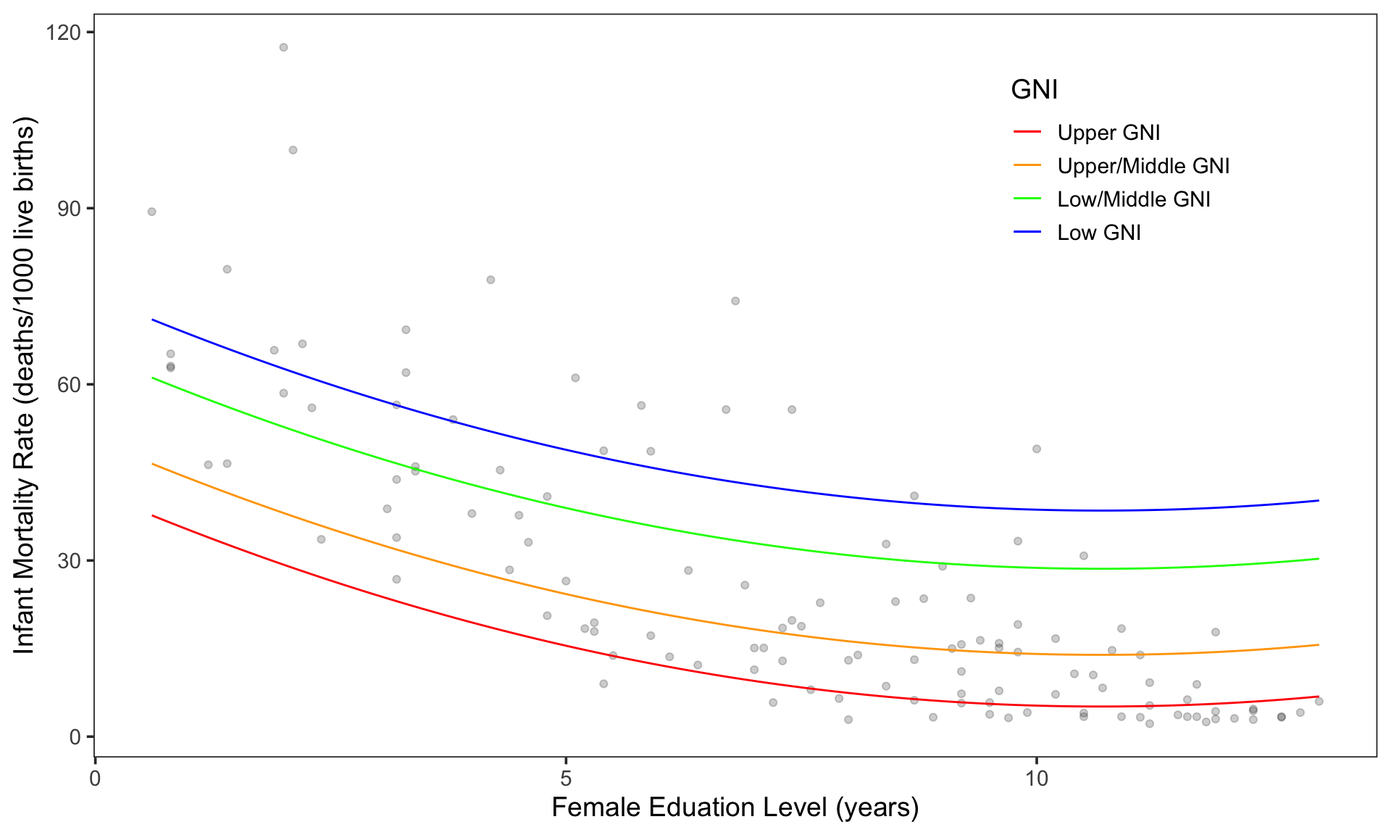
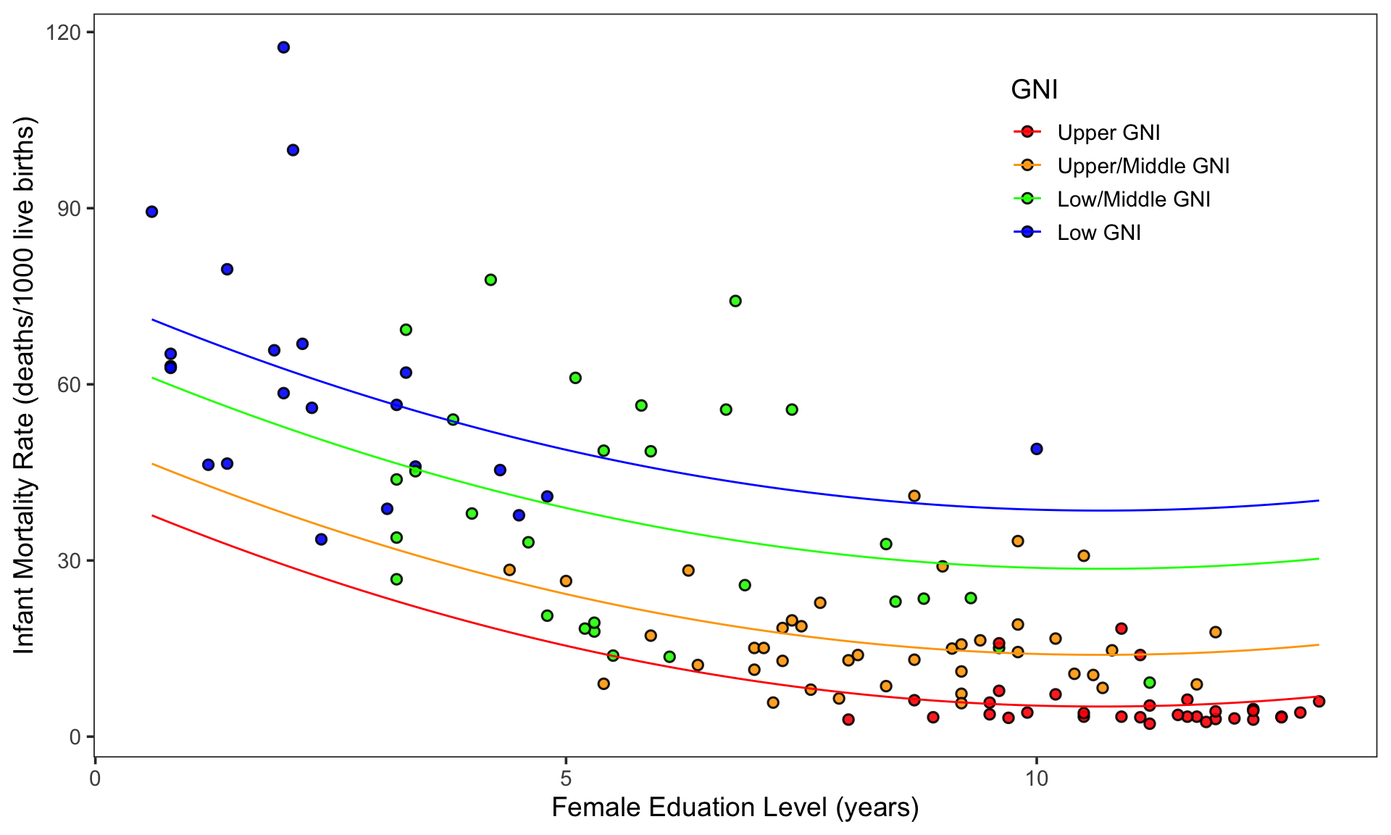
_freeze, _site, and fertility index.qmd update

diff --git a/_site/projects/fertility/index.html b/_site/projects/fertility/index.html
@@ -246,7 +246,7 @@ pre > code.sourceCode > span > a:first-child::before { text-decoration: underlin
 <div id="fig-quadratics" class="quarto-figure quarto-figure-left anchored">
 <figure class="figure">
 <p><img src="index_files/figure-html/fig-quadratics-1.png" style="width:100.0%;height:100.0%" class="figure-img"></p>
-<figcaption class="figure-caption">Figure&nbsp;2: Quadratic fits showing the relationship between fertility rate and female education level for 4 different GNI levels.</figcaption>
+<figcaption class="figure-caption">Figure&nbsp;2: Quadratic fits showing the relationship between fertility rate and female education level for four different GNI levels.</figcaption>
 </figure>
 </div>
 </div>
@@ -570,22 +570,22 @@ window.document.addEventListener("DOMContentLoaded", function (event) {
 <span id="cb1-4"><a href="#cb1-4" aria-hidden="true" tabindex="-1"></a><span class="co">  html:</span></span>
 <span id="cb1-5"><a href="#cb1-5" aria-hidden="true" tabindex="-1"></a><span class="co">    fig-width: 12</span></span>
 <span id="cb1-6"><a href="#cb1-6" aria-hidden="true" tabindex="-1"></a><span class="co">    fig-height: 9</span></span>
-<span id="cb1-7"><a href="#cb1-7" aria-hidden="true" tabindex="-1"></a><span class="co">    footer: "Andy"</span></span>
-<span id="cb1-8"><a href="#cb1-8" aria-hidden="true" tabindex="-1"></a><span class="an">editor:</span><span class="co"> visual</span></span>
-<span id="cb1-9"><a href="#cb1-9" aria-hidden="true" tabindex="-1"></a><span class="an">execute:</span><span class="co"> </span></span>
-<span id="cb1-10"><a href="#cb1-10" aria-hidden="true" tabindex="-1"></a><span class="co">  echo: false</span></span>
-<span id="cb1-11"><a href="#cb1-11" aria-hidden="true" tabindex="-1"></a><span class="an">code-tools:</span><span class="co"> true</span></span>
-<span id="cb1-12"><a href="#cb1-12" aria-hidden="true" tabindex="-1"></a><span class="co">---</span></span>
-<span id="cb1-13"><a href="#cb1-13" aria-hidden="true" tabindex="-1"></a></span>
-<span id="cb1-16"><a href="#cb1-16" aria-hidden="true" tabindex="-1"></a><span class="in">```{r}</span></span>
-<span id="cb1-17"><a href="#cb1-17" aria-hidden="true" tabindex="-1"></a><span class="co">#| echo: false</span></span>
-<span id="cb1-18"><a href="#cb1-18" aria-hidden="true" tabindex="-1"></a><span class="co">#| message: false</span></span>
-<span id="cb1-19"><a href="#cb1-19" aria-hidden="true" tabindex="-1"></a><span class="co">#| warning: false</span></span>
-<span id="cb1-20"><a href="#cb1-20" aria-hidden="true" tabindex="-1"></a></span>
-<span id="cb1-21"><a href="#cb1-21" aria-hidden="true" tabindex="-1"></a><span class="fu">library</span>(tidyverse)</span>
-<span id="cb1-22"><a href="#cb1-22" aria-hidden="true" tabindex="-1"></a><span class="fu">library</span>(broom)</span>
-<span id="cb1-23"><a href="#cb1-23" aria-hidden="true" tabindex="-1"></a><span class="fu">library</span>(gt)</span>
-<span id="cb1-24"><a href="#cb1-24" aria-hidden="true" tabindex="-1"></a><span class="fu">library</span>(ggtext)</span>
+<span id="cb1-7"><a href="#cb1-7" aria-hidden="true" tabindex="-1"></a><span class="an">editor:</span><span class="co"> visual</span></span>
+<span id="cb1-8"><a href="#cb1-8" aria-hidden="true" tabindex="-1"></a><span class="an">execute:</span><span class="co"> </span></span>
+<span id="cb1-9"><a href="#cb1-9" aria-hidden="true" tabindex="-1"></a><span class="co">  echo: false</span></span>
+<span id="cb1-10"><a href="#cb1-10" aria-hidden="true" tabindex="-1"></a><span class="an">code-tools:</span><span class="co"> true</span></span>
+<span id="cb1-11"><a href="#cb1-11" aria-hidden="true" tabindex="-1"></a><span class="co">---</span></span>
+<span id="cb1-12"><a href="#cb1-12" aria-hidden="true" tabindex="-1"></a></span>
+<span id="cb1-15"><a href="#cb1-15" aria-hidden="true" tabindex="-1"></a><span class="in">```{r}</span></span>
+<span id="cb1-16"><a href="#cb1-16" aria-hidden="true" tabindex="-1"></a><span class="co">#| echo: false</span></span>
+<span id="cb1-17"><a href="#cb1-17" aria-hidden="true" tabindex="-1"></a><span class="co">#| message: false</span></span>
+<span id="cb1-18"><a href="#cb1-18" aria-hidden="true" tabindex="-1"></a><span class="co">#| warning: false</span></span>
+<span id="cb1-19"><a href="#cb1-19" aria-hidden="true" tabindex="-1"></a></span>
+<span id="cb1-20"><a href="#cb1-20" aria-hidden="true" tabindex="-1"></a><span class="fu">library</span>(tidyverse)</span>
+<span id="cb1-21"><a href="#cb1-21" aria-hidden="true" tabindex="-1"></a><span class="fu">library</span>(broom)</span>
+<span id="cb1-22"><a href="#cb1-22" aria-hidden="true" tabindex="-1"></a><span class="fu">library</span>(gt)</span>
+<span id="cb1-23"><a href="#cb1-23" aria-hidden="true" tabindex="-1"></a><span class="fu">library</span>(ggtext)</span>
+<span id="cb1-24"><a href="#cb1-24" aria-hidden="true" tabindex="-1"></a><span class="fu">library</span>(dplyr)</span>
 <span id="cb1-25"><a href="#cb1-25" aria-hidden="true" tabindex="-1"></a>fertility <span class="ot">&lt;-</span> <span class="fu">read_csv</span>(<span class="st">"fertility.csv"</span>)</span>
 <span id="cb1-26"><a href="#cb1-26" aria-hidden="true" tabindex="-1"></a><span class="in">```</span></span>
 <span id="cb1-27"><a href="#cb1-27" aria-hidden="true" tabindex="-1"></a></span>
@@ -611,7 +611,7 @@ window.document.addEventListener("DOMContentLoaded", function (event) {
 <span id="cb1-49"><a href="#cb1-49" aria-hidden="true" tabindex="-1"></a></span>
 <span id="cb1-50"><a href="#cb1-50" aria-hidden="true" tabindex="-1"></a><span class="co">#create scatterplot</span></span>
 <span id="cb1-51"><a href="#cb1-51" aria-hidden="true" tabindex="-1"></a><span class="fu">ggplot</span>(fertility, <span class="fu">aes</span>(<span class="at">x =</span> educ_female, <span class="at">y =</span> infant_mortality)) <span class="sc">+</span> </span>
-<span id="cb1-52"><a href="#cb1-52" aria-hidden="true" tabindex="-1"></a>  <span class="fu">geom_point</span>(<span class="at">alpha =</span> <span class="fl">0.2</span>) <span class="sc">+</span> </span>
+<span id="cb1-52"><a href="#cb1-52" aria-hidden="true" tabindex="-1"></a>  <span class="fu">geom_point</span>(<span class="at">alpha =</span> <span class="fl">0.2</span>, <span class="at">size =</span> <span class="dv">2</span>, <span class="at">color =</span> <span class="st">"black"</span>, <span class="at">stroke =</span> <span class="fl">0.8</span>) <span class="sc">+</span> </span>
 <span id="cb1-53"><a href="#cb1-53" aria-hidden="true" tabindex="-1"></a>  <span class="fu">theme_bw</span>(<span class="at">base_size =</span> <span class="dv">14</span>) <span class="sc">+</span></span>
 <span id="cb1-54"><a href="#cb1-54" aria-hidden="true" tabindex="-1"></a>  <span class="fu">theme</span>(</span>
 <span id="cb1-55"><a href="#cb1-55" aria-hidden="true" tabindex="-1"></a>    <span class="at">panel.grid =</span> <span class="fu">element_blank</span>(),</span>
@@ -641,53 +641,65 @@ window.document.addEventListener("DOMContentLoaded", function (event) {
 <span id="cb1-79"><a href="#cb1-79" aria-hidden="true" tabindex="-1"></a>An investigation of the standardized residuals for this linear model suggest that a linear model may not accurately represent the data and that a model including a quadratic effect of female education may be more appropriate as well as one that segments GNI into four levels. This new model was regressed, controlling for each GNI and was found to better represent the data ($\mathrm{R}^2 = 0.711$) than the linear model ($\mathrm{R}^2 = 0.606$). Again, the equation and a figure for this model are provided below.</span>
 <span id="cb1-80"><a href="#cb1-80" aria-hidden="true" tabindex="-1"></a></span>
 <span id="cb1-83"><a href="#cb1-83" aria-hidden="true" tabindex="-1"></a><span class="in">```{r}</span></span>
-<span id="cb1-84"><a href="#cb1-84" aria-hidden="true" tabindex="-1"></a><span class="co">#| echo: false</span></span>
-<span id="cb1-85"><a href="#cb1-85" aria-hidden="true" tabindex="-1"></a><span class="co">#| label: fig-quadratics</span></span>
-<span id="cb1-86"><a href="#cb1-86" aria-hidden="true" tabindex="-1"></a><span class="co">#| fig-cap: "Quadratic fits showing the relationship between fertility rate and female education level for 4 different GNI levels."</span></span>
-<span id="cb1-87"><a href="#cb1-87" aria-hidden="true" tabindex="-1"></a><span class="co">#| fig-align: left</span></span>
-<span id="cb1-88"><a href="#cb1-88" aria-hidden="true" tabindex="-1"></a><span class="co">#| fig-width: 10</span></span>
-<span id="cb1-89"><a href="#cb1-89" aria-hidden="true" tabindex="-1"></a><span class="co">#| fig-height: 6</span></span>
-<span id="cb1-90"><a href="#cb1-90" aria-hidden="true" tabindex="-1"></a><span class="co">#| out-width: 100%</span></span>
-<span id="cb1-91"><a href="#cb1-91" aria-hidden="true" tabindex="-1"></a><span class="co">#| out-height: 100%</span></span>
-<span id="cb1-92"><a href="#cb1-92" aria-hidden="true" tabindex="-1"></a></span>
-<span id="cb1-93"><a href="#cb1-93" aria-hidden="true" tabindex="-1"></a><span class="co">#create scatterplot</span></span>
-<span id="cb1-94"><a href="#cb1-94" aria-hidden="true" tabindex="-1"></a><span class="fu">ggplot</span>(fertility, <span class="fu">aes</span>(<span class="at">x =</span> educ_female, <span class="at">y =</span> infant_mortality)) <span class="sc">+</span> </span>
-<span id="cb1-95"><a href="#cb1-95" aria-hidden="true" tabindex="-1"></a>  <span class="fu">geom_point</span>(<span class="at">alpha =</span> <span class="fl">0.2</span>) <span class="sc">+</span> </span>
-<span id="cb1-96"><a href="#cb1-96" aria-hidden="true" tabindex="-1"></a>  <span class="fu">theme_bw</span>(<span class="at">base_size =</span> <span class="dv">14</span>) <span class="sc">+</span></span>
-<span id="cb1-97"><a href="#cb1-97" aria-hidden="true" tabindex="-1"></a>  <span class="fu">theme</span>(</span>
-<span id="cb1-98"><a href="#cb1-98" aria-hidden="true" tabindex="-1"></a>    <span class="at">panel.grid =</span> <span class="fu">element_blank</span>(),</span>
-<span id="cb1-99"><a href="#cb1-99" aria-hidden="true" tabindex="-1"></a>    <span class="at">axis.title.x =</span>  <span class="fu">element_markdown</span>(),</span>
-<span id="cb1-100"><a href="#cb1-100" aria-hidden="true" tabindex="-1"></a>    <span class="at">axis.title.y =</span>  <span class="fu">element_markdown</span>(),</span>
-<span id="cb1-101"><a href="#cb1-101" aria-hidden="true" tabindex="-1"></a>    <span class="at">legend.position =</span> <span class="fu">c</span>(<span class="fl">0.8</span>, <span class="fl">0.8</span>)</span>
-<span id="cb1-102"><a href="#cb1-102" aria-hidden="true" tabindex="-1"></a>  ) <span class="sc">+</span></span>
-<span id="cb1-103"><a href="#cb1-103" aria-hidden="true" tabindex="-1"></a>  <span class="fu">scale_color_manual</span>(<span class="at">name =</span> <span class="st">"GNI"</span>, </span>
-<span id="cb1-104"><a href="#cb1-104" aria-hidden="true" tabindex="-1"></a>                     <span class="at">values =</span> <span class="fu">c</span>(<span class="st">"Upper GNI"</span> <span class="ot">=</span> <span class="st">"red"</span>, <span class="st">"Upper/Middle GNI"</span> <span class="ot">=</span> <span class="st">"orange"</span>, <span class="st">"Low/Middle GNI"</span> <span class="ot">=</span> <span class="st">"green"</span>, <span class="st">"Low GNI"</span> <span class="ot">=</span> <span class="st">"blue"</span>), </span>
-<span id="cb1-105"><a href="#cb1-105" aria-hidden="true" tabindex="-1"></a>                     <span class="at">breaks =</span> <span class="fu">c</span>(<span class="st">"Upper GNI"</span>, <span class="st">"Upper/Middle GNI"</span>, <span class="st">"Low/Middle GNI"</span>, <span class="st">"Low GNI"</span>)</span>
-<span id="cb1-106"><a href="#cb1-106" aria-hidden="true" tabindex="-1"></a>                     ) <span class="sc">+</span></span>
-<span id="cb1-107"><a href="#cb1-107" aria-hidden="true" tabindex="-1"></a>  <span class="fu">geom_function</span>(<span class="fu">aes</span>(<span class="at">color=</span><span class="st">"Upper GNI"</span>),</span>
-<span id="cb1-108"><a href="#cb1-108" aria-hidden="true" tabindex="-1"></a>    <span class="at">fun =</span> <span class="cf">function</span>(x) {(<span class="fl">75.05</span> <span class="sc">-</span> <span class="fl">33.37</span>) <span class="sc">-</span> <span class="fl">6.84</span> <span class="sc">*</span> x <span class="sc">+</span> <span class="fl">0.32</span> <span class="sc">*</span> x<span class="sc">^</span><span class="dv">2</span>}</span>
-<span id="cb1-109"><a href="#cb1-109" aria-hidden="true" tabindex="-1"></a>    ) <span class="sc">+</span></span>
-<span id="cb1-110"><a href="#cb1-110" aria-hidden="true" tabindex="-1"></a>  <span class="fu">geom_function</span>(<span class="fu">aes</span>(<span class="at">color=</span><span class="st">"Upper/Middle GNI"</span>),</span>
-<span id="cb1-111"><a href="#cb1-111" aria-hidden="true" tabindex="-1"></a>    <span class="at">fun =</span> <span class="cf">function</span>(x) {(<span class="fl">75.05</span> <span class="sc">-</span> <span class="fl">24.57</span>) <span class="sc">-</span> <span class="fl">6.84</span> <span class="sc">*</span> x <span class="sc">+</span> <span class="fl">0.32</span> <span class="sc">*</span> x<span class="sc">^</span><span class="dv">2</span>}</span>
-<span id="cb1-112"><a href="#cb1-112" aria-hidden="true" tabindex="-1"></a>    ) <span class="sc">+</span></span>
-<span id="cb1-113"><a href="#cb1-113" aria-hidden="true" tabindex="-1"></a>  <span class="fu">geom_function</span>(<span class="fu">aes</span>(<span class="at">color=</span><span class="st">"Low/Middle GNI"</span>),</span>
-<span id="cb1-114"><a href="#cb1-114" aria-hidden="true" tabindex="-1"></a>    <span class="at">fun =</span> <span class="cf">function</span>(x) {(<span class="fl">75.05</span> <span class="sc">-</span> <span class="fl">9.91</span>) <span class="sc">-</span> <span class="fl">6.84</span> <span class="sc">*</span> x <span class="sc">+</span> <span class="fl">0.32</span> <span class="sc">*</span> x<span class="sc">^</span><span class="dv">2</span>}</span>
-<span id="cb1-115"><a href="#cb1-115" aria-hidden="true" tabindex="-1"></a>    ) <span class="sc">+</span></span>
-<span id="cb1-116"><a href="#cb1-116" aria-hidden="true" tabindex="-1"></a>  <span class="fu">geom_function</span>(<span class="fu">aes</span>(<span class="at">color=</span><span class="st">"Low GNI"</span>),</span>
-<span id="cb1-117"><a href="#cb1-117" aria-hidden="true" tabindex="-1"></a>    <span class="at">fun =</span> <span class="cf">function</span>(x) {<span class="fl">75.05</span> <span class="sc">-</span> <span class="fl">6.84</span> <span class="sc">*</span> x <span class="sc">+</span> <span class="fl">0.32</span> <span class="sc">*</span> x<span class="sc">^</span><span class="dv">2</span>}</span>
-<span id="cb1-118"><a href="#cb1-118" aria-hidden="true" tabindex="-1"></a>    ) <span class="sc">+</span></span>
-<span id="cb1-119"><a href="#cb1-119" aria-hidden="true" tabindex="-1"></a>  <span class="fu">xlab</span>(<span class="st">"Female Eduation Level (years)"</span>) <span class="sc">+</span></span>
-<span id="cb1-120"><a href="#cb1-120" aria-hidden="true" tabindex="-1"></a>  <span class="fu">ylab</span>(<span class="st">"Infant Mortality Rate (deaths/1000 live births)"</span>)</span>
-<span id="cb1-121"><a href="#cb1-121" aria-hidden="true" tabindex="-1"></a><span class="in">```</span></span>
-<span id="cb1-122"><a href="#cb1-122" aria-hidden="true" tabindex="-1"></a></span>
-<span id="cb1-123"><a href="#cb1-123" aria-hidden="true" tabindex="-1"></a>$$</span>
-<span id="cb1-124"><a href="#cb1-124" aria-hidden="true" tabindex="-1"></a>\begin{align}</span>
-<span id="cb1-125"><a href="#cb1-125" aria-hidden="true" tabindex="-1"></a>\hat{\mathrm{Infant~Mortality~Rate}_i} &amp;= 75.02 - 6.84(\mathrm{Female~Education~Level}_i) + 0.32(\mathrm{Female~Education~Level}_i^2) \nonumber <span class="sc">\\</span></span>
-<span id="cb1-126"><a href="#cb1-126" aria-hidden="true" tabindex="-1"></a>&amp;\quad - 33.37(\mathrm{Upper~GNI}_i) - 24.57(\mathrm{Upper/Middle~GNI}_i)  - 9.91(\mathrm{Low/Middle~GNI}_i)</span>
-<span id="cb1-127"><a href="#cb1-127" aria-hidden="true" tabindex="-1"></a>\end{align}</span>
-<span id="cb1-128"><a href="#cb1-128" aria-hidden="true" tabindex="-1"></a>$$</span>
-<span id="cb1-129"><a href="#cb1-129" aria-hidden="true" tabindex="-1"></a></span>
-<span id="cb1-130"><a href="#cb1-130" aria-hidden="true" tabindex="-1"></a>Like in the linear model, countries with high levels of GNI are associated with a lower infant mortality rate and female education has a negative effect on infant mortality rate, controlling for GNI. However, while the negative effect of female education level remains the same across all levels of female education in the linear model, in the quadratic model, this effect decreases as female education level increases. Another way of saying this is that the negative effect of female education on infant mortality rate is greater at lower levels of education than it is at higher levels (i.e., there is a greater effect at education level 1 than at education level 12). This can be interpreted to mean that the initial years of female education are more critical to decreasing infant mortality than later years. Education still has an effect in these later stages, but its effect diminishes.</span>
+<span id="cb1-84"><a href="#cb1-84" aria-hidden="true" tabindex="-1"></a>fertility <span class="ot">&lt;-</span> fertility <span class="sc">%&gt;%</span></span>
+<span id="cb1-85"><a href="#cb1-85" aria-hidden="true" tabindex="-1"></a>  <span class="fu">mutate</span>(</span>
+<span id="cb1-86"><a href="#cb1-86" aria-hidden="true" tabindex="-1"></a>    <span class="at">gni_class =</span> <span class="fu">paste</span>(gni_class, <span class="st">"GNI"</span>, <span class="at">sep =</span> <span class="st">" "</span>)</span>
+<span id="cb1-87"><a href="#cb1-87" aria-hidden="true" tabindex="-1"></a>  )  </span>
+<span id="cb1-88"><a href="#cb1-88" aria-hidden="true" tabindex="-1"></a><span class="in">```</span></span>
+<span id="cb1-89"><a href="#cb1-89" aria-hidden="true" tabindex="-1"></a></span>
+<span id="cb1-90"><a href="#cb1-90" aria-hidden="true" tabindex="-1"></a></span>
+<span id="cb1-93"><a href="#cb1-93" aria-hidden="true" tabindex="-1"></a><span class="in">```{r}</span></span>
+<span id="cb1-94"><a href="#cb1-94" aria-hidden="true" tabindex="-1"></a><span class="co">#| echo: false</span></span>
+<span id="cb1-95"><a href="#cb1-95" aria-hidden="true" tabindex="-1"></a><span class="co">#| label: fig-quadratics</span></span>
+<span id="cb1-96"><a href="#cb1-96" aria-hidden="true" tabindex="-1"></a><span class="co">#| fig-cap: "Quadratic fits showing the relationship between fertility rate and female education level for four different GNI levels."</span></span>
+<span id="cb1-97"><a href="#cb1-97" aria-hidden="true" tabindex="-1"></a><span class="co">#| fig-align: left</span></span>
+<span id="cb1-98"><a href="#cb1-98" aria-hidden="true" tabindex="-1"></a><span class="co">#| fig-width: 10</span></span>
+<span id="cb1-99"><a href="#cb1-99" aria-hidden="true" tabindex="-1"></a><span class="co">#| fig-height: 6</span></span>
+<span id="cb1-100"><a href="#cb1-100" aria-hidden="true" tabindex="-1"></a><span class="co">#| out-width: 100%</span></span>
+<span id="cb1-101"><a href="#cb1-101" aria-hidden="true" tabindex="-1"></a><span class="co">#| out-height: 100%</span></span>
+<span id="cb1-102"><a href="#cb1-102" aria-hidden="true" tabindex="-1"></a>  </span>
+<span id="cb1-103"><a href="#cb1-103" aria-hidden="true" tabindex="-1"></a><span class="co">#create scatterplot</span></span>
+<span id="cb1-104"><a href="#cb1-104" aria-hidden="true" tabindex="-1"></a><span class="fu">ggplot</span>(fertility, <span class="fu">aes</span>(<span class="at">x =</span> educ_female, <span class="at">y =</span> infant_mortality)) <span class="sc">+</span> </span>
+<span id="cb1-105"><a href="#cb1-105" aria-hidden="true" tabindex="-1"></a>  <span class="fu">geom_point</span>(<span class="at">alpha =</span> <span class="fl">0.9</span>, <span class="fu">aes</span>(<span class="at">fill =</span> gni_class), <span class="at">shape =</span> <span class="dv">21</span>, <span class="at">size =</span> <span class="dv">2</span>, <span class="at">color =</span> <span class="st">"black"</span>, <span class="at">stroke =</span> <span class="fl">0.8</span>) <span class="sc">+</span> </span>
+<span id="cb1-106"><a href="#cb1-106" aria-hidden="true" tabindex="-1"></a>  <span class="fu">theme_bw</span>(<span class="at">base_size =</span> <span class="dv">14</span>) <span class="sc">+</span></span>
+<span id="cb1-107"><a href="#cb1-107" aria-hidden="true" tabindex="-1"></a>  <span class="fu">theme</span>(</span>
+<span id="cb1-108"><a href="#cb1-108" aria-hidden="true" tabindex="-1"></a>    <span class="at">panel.grid =</span> <span class="fu">element_blank</span>(),</span>
+<span id="cb1-109"><a href="#cb1-109" aria-hidden="true" tabindex="-1"></a>    <span class="at">axis.title.x =</span>  <span class="fu">element_markdown</span>(),</span>
+<span id="cb1-110"><a href="#cb1-110" aria-hidden="true" tabindex="-1"></a>    <span class="at">axis.title.y =</span>  <span class="fu">element_markdown</span>(),</span>
+<span id="cb1-111"><a href="#cb1-111" aria-hidden="true" tabindex="-1"></a>    <span class="at">legend.position =</span> <span class="fu">c</span>(<span class="fl">0.8</span>, <span class="fl">0.8</span>)</span>
+<span id="cb1-112"><a href="#cb1-112" aria-hidden="true" tabindex="-1"></a>  ) <span class="sc">+</span></span>
+<span id="cb1-113"><a href="#cb1-113" aria-hidden="true" tabindex="-1"></a>  <span class="fu">scale_color_manual</span>(<span class="at">name =</span> <span class="st">"GNI"</span>, </span>
+<span id="cb1-114"><a href="#cb1-114" aria-hidden="true" tabindex="-1"></a>                     <span class="at">values =</span> <span class="fu">c</span>(<span class="st">"Upper GNI"</span> <span class="ot">=</span> <span class="st">"red"</span>, <span class="st">"Upper/Middle GNI"</span> <span class="ot">=</span> <span class="st">"orange"</span>, <span class="st">"Low/Middle GNI"</span> <span class="ot">=</span> <span class="st">"green"</span>, <span class="st">"Low GNI"</span> <span class="ot">=</span> <span class="st">"blue"</span>), </span>
+<span id="cb1-115"><a href="#cb1-115" aria-hidden="true" tabindex="-1"></a>                     <span class="at">breaks =</span> <span class="fu">c</span>(<span class="st">"Upper GNI"</span>, <span class="st">"Upper/Middle GNI"</span>, <span class="st">"Low/Middle GNI"</span>, <span class="st">"Low GNI"</span>)</span>
+<span id="cb1-116"><a href="#cb1-116" aria-hidden="true" tabindex="-1"></a>                     ) <span class="sc">+</span></span>
+<span id="cb1-117"><a href="#cb1-117" aria-hidden="true" tabindex="-1"></a>  <span class="fu">scale_fill_manual</span>(<span class="at">name =</span> <span class="st">"GNI"</span>, </span>
+<span id="cb1-118"><a href="#cb1-118" aria-hidden="true" tabindex="-1"></a>                     <span class="at">values =</span> <span class="fu">c</span>(<span class="st">"Upper GNI"</span> <span class="ot">=</span> <span class="st">"red"</span>, <span class="st">"Upper/Middle GNI"</span> <span class="ot">=</span> <span class="st">"orange"</span>, <span class="st">"Low/Middle GNI"</span> <span class="ot">=</span> <span class="st">"green"</span>, <span class="st">"Low GNI"</span> <span class="ot">=</span> <span class="st">"blue"</span>), </span>
+<span id="cb1-119"><a href="#cb1-119" aria-hidden="true" tabindex="-1"></a>                     <span class="at">breaks =</span> <span class="fu">c</span>(<span class="st">"Upper GNI"</span>, <span class="st">"Upper/Middle GNI"</span>, <span class="st">"Low/Middle GNI"</span>, <span class="st">"Low GNI"</span>)</span>
+<span id="cb1-120"><a href="#cb1-120" aria-hidden="true" tabindex="-1"></a>                     ) <span class="sc">+</span></span>
+<span id="cb1-121"><a href="#cb1-121" aria-hidden="true" tabindex="-1"></a>  <span class="fu">geom_function</span>(<span class="fu">aes</span>(<span class="at">color=</span><span class="st">"Upper GNI"</span>),</span>
+<span id="cb1-122"><a href="#cb1-122" aria-hidden="true" tabindex="-1"></a>    <span class="at">fun =</span> <span class="cf">function</span>(x) {(<span class="fl">75.05</span> <span class="sc">-</span> <span class="fl">33.37</span>) <span class="sc">-</span> <span class="fl">6.84</span> <span class="sc">*</span> x <span class="sc">+</span> <span class="fl">0.32</span> <span class="sc">*</span> x<span class="sc">^</span><span class="dv">2</span>}</span>
+<span id="cb1-123"><a href="#cb1-123" aria-hidden="true" tabindex="-1"></a>    ) <span class="sc">+</span></span>
+<span id="cb1-124"><a href="#cb1-124" aria-hidden="true" tabindex="-1"></a>  <span class="fu">geom_function</span>(<span class="fu">aes</span>(<span class="at">color=</span><span class="st">"Upper/Middle GNI"</span>),</span>
+<span id="cb1-125"><a href="#cb1-125" aria-hidden="true" tabindex="-1"></a>    <span class="at">fun =</span> <span class="cf">function</span>(x) {(<span class="fl">75.05</span> <span class="sc">-</span> <span class="fl">24.57</span>) <span class="sc">-</span> <span class="fl">6.84</span> <span class="sc">*</span> x <span class="sc">+</span> <span class="fl">0.32</span> <span class="sc">*</span> x<span class="sc">^</span><span class="dv">2</span>}</span>
+<span id="cb1-126"><a href="#cb1-126" aria-hidden="true" tabindex="-1"></a>    ) <span class="sc">+</span></span>
+<span id="cb1-127"><a href="#cb1-127" aria-hidden="true" tabindex="-1"></a>  <span class="fu">geom_function</span>(<span class="fu">aes</span>(<span class="at">color=</span><span class="st">"Low/Middle GNI"</span>),</span>
+<span id="cb1-128"><a href="#cb1-128" aria-hidden="true" tabindex="-1"></a>    <span class="at">fun =</span> <span class="cf">function</span>(x) {(<span class="fl">75.05</span> <span class="sc">-</span> <span class="fl">9.91</span>) <span class="sc">-</span> <span class="fl">6.84</span> <span class="sc">*</span> x <span class="sc">+</span> <span class="fl">0.32</span> <span class="sc">*</span> x<span class="sc">^</span><span class="dv">2</span>}</span>
+<span id="cb1-129"><a href="#cb1-129" aria-hidden="true" tabindex="-1"></a>    ) <span class="sc">+</span></span>
+<span id="cb1-130"><a href="#cb1-130" aria-hidden="true" tabindex="-1"></a>  <span class="fu">geom_function</span>(<span class="fu">aes</span>(<span class="at">color=</span><span class="st">"Low GNI"</span>),</span>
+<span id="cb1-131"><a href="#cb1-131" aria-hidden="true" tabindex="-1"></a>    <span class="at">fun =</span> <span class="cf">function</span>(x) {<span class="fl">75.05</span> <span class="sc">-</span> <span class="fl">6.84</span> <span class="sc">*</span> x <span class="sc">+</span> <span class="fl">0.32</span> <span class="sc">*</span> x<span class="sc">^</span><span class="dv">2</span>}</span>
+<span id="cb1-132"><a href="#cb1-132" aria-hidden="true" tabindex="-1"></a>    ) <span class="sc">+</span></span>
+<span id="cb1-133"><a href="#cb1-133" aria-hidden="true" tabindex="-1"></a>  <span class="fu">xlab</span>(<span class="st">"Female Eduation Level (years)"</span>) <span class="sc">+</span></span>
+<span id="cb1-134"><a href="#cb1-134" aria-hidden="true" tabindex="-1"></a>  <span class="fu">ylab</span>(<span class="st">"Infant Mortality Rate (deaths/1000 live births)"</span>)</span>
+<span id="cb1-135"><a href="#cb1-135" aria-hidden="true" tabindex="-1"></a><span class="in">```</span></span>
+<span id="cb1-136"><a href="#cb1-136" aria-hidden="true" tabindex="-1"></a></span>
+<span id="cb1-137"><a href="#cb1-137" aria-hidden="true" tabindex="-1"></a>$$</span>
+<span id="cb1-138"><a href="#cb1-138" aria-hidden="true" tabindex="-1"></a>\begin{align}</span>
+<span id="cb1-139"><a href="#cb1-139" aria-hidden="true" tabindex="-1"></a>\hat{\mathrm{Infant~Mortality~Rate}_i} &amp;= 75.02 - 6.84(\mathrm{Female~Education~Level}_i) + 0.32(\mathrm{Female~Education~Level}_i^2) \nonumber <span class="sc">\\</span></span>
+<span id="cb1-140"><a href="#cb1-140" aria-hidden="true" tabindex="-1"></a>&amp;\quad - 33.37(\mathrm{Upper~GNI}_i) - 24.57(\mathrm{Upper/Middle~GNI}_i)  - 9.91(\mathrm{Low/Middle~GNI}_i)</span>
+<span id="cb1-141"><a href="#cb1-141" aria-hidden="true" tabindex="-1"></a>\end{align}</span>
+<span id="cb1-142"><a href="#cb1-142" aria-hidden="true" tabindex="-1"></a>$$</span>
+<span id="cb1-143"><a href="#cb1-143" aria-hidden="true" tabindex="-1"></a></span>
+<span id="cb1-144"><a href="#cb1-144" aria-hidden="true" tabindex="-1"></a>Like in the linear model, countries with high levels of GNI are associated with a lower infant mortality rate and female education has a negative effect on infant mortality rate, controlling for GNI. However, while the negative effect of female education level remains the same across all levels of female education in the linear model, in the quadratic model, this effect decreases as female education level increases. Another way of saying this is that the negative effect of female education on infant mortality rate is greater at lower levels of education than it is at higher levels (i.e., there is a greater effect at education level 1 than at education level 12). This can be interpreted to mean that the initial years of female education are more critical to decreasing infant mortality than later years. Education still has an effect in these later stages, but its effect diminishes.</span>
 </code><button title="Copy to Clipboard" class="code-copy-button"><i class="bi"></i></button></pre></div>
 </div></div></div></div></div>
 </div> <!-- /content -->

diff --git a/_site/projects/wine/index.html b/_site/projects/wine/index.html
@@ -118,10 +118,10 @@ pre > code.sourceCode > span > a:first-child::before { text-decoration: underlin
           <div class="collapse navbar-collapse" id="navbarCollapse">
             <ul class="navbar-nav navbar-nav-scroll me-auto">
   <li class="nav-item dropdown ">
-    <a class="nav-link dropdown-toggle" href="#" id="nav-menu-academic-projects" role="button" data-bs-toggle="dropdown" aria-expanded="false" rel="" target="">
- <span class="menu-text">Academic Projects</span>
+    <a class="nav-link dropdown-toggle" href="#" id="nav-menu-statistical-analyses" role="button" data-bs-toggle="dropdown" aria-expanded="false" rel="" target="">
+ <span class="menu-text">Statistical Analyses</span>
     </a>
-    <ul class="dropdown-menu" aria-labelledby="nav-menu-academic-projects">    
+    <ul class="dropdown-menu" aria-labelledby="nav-menu-statistical-analyses">    
         <li>
     <a class="dropdown-item" href="../../projects/fertility/index.html" rel="" target="">
  <span class="dropdown-text">Polynomial Effects</span></a>
@@ -299,7 +299,7 @@ Residual Std. Error               0.488             0.760            0.483
 <div id="fig-fits" class="quarto-figure quarto-figure-center anchored">
 <figure class="figure">
 <p><img src="index_files/figure-html/fig-fits-1.png" class="img-fluid figure-img" width="1152"></p>
-<figcaption class="figure-caption">Figure&nbsp;2: Best fits for wines from CA and not from CA, according to Model 3.</figcaption>
+<figcaption class="figure-caption">Figure&nbsp;2: Best fits for wines from CA and wines not from CA, according to Model 3.</figcaption>
 </figure>
 </div>
 </div>
@@ -772,7 +772,7 @@ window.document.addEventListener("DOMContentLoaded", function (event) {
 <span id="cb2-166"><a href="#cb2-166" aria-hidden="true" tabindex="-1"></a><span class="co">#| echo: false</span></span>
 <span id="cb2-167"><a href="#cb2-167" aria-hidden="true" tabindex="-1"></a><span class="co">#| warning: false</span></span>
 <span id="cb2-168"><a href="#cb2-168" aria-hidden="true" tabindex="-1"></a><span class="co">#| label: fig-fits</span></span>
-<span id="cb2-169"><a href="#cb2-169" aria-hidden="true" tabindex="-1"></a><span class="co">#| fig-cap: "Best fits for wines from CA and not from CA, according to Model 3."</span></span>
+<span id="cb2-169"><a href="#cb2-169" aria-hidden="true" tabindex="-1"></a><span class="co">#| fig-cap: "Best fits for wines from CA and wines not from CA, according to Model 3."</span></span>
 <span id="cb2-170"><a href="#cb2-170" aria-hidden="true" tabindex="-1"></a></span>
 <span id="cb2-171"><a href="#cb2-171" aria-hidden="true" tabindex="-1"></a><span class="fu">ggplot</span>(<span class="at">data =</span> wine, <span class="fu">aes</span>(<span class="at">x =</span> rating, <span class="at">y =</span> price)) <span class="sc">+</span> </span>
 <span id="cb2-172"><a href="#cb2-172" aria-hidden="true" tabindex="-1"></a>  <span class="fu">geom_point</span>(<span class="at">alpha =</span> <span class="fl">0.2</span>, <span class="at">size =</span> <span class="dv">3</span>) <span class="sc">+</span> </span>

diff --git a/_site/projects/nhl/index.html b/_site/projects/nhl/index.html
@@ -229,7 +229,7 @@ pre > code.sourceCode > span > a:first-child::before { text-decoration: underlin
 <div id="fig-spaghetti" class="quarto-figure quarto-figure-center anchored">
 <figure class="figure">
 <p><img src="index_files/figure-html/fig-spaghetti-1.png" class="img-fluid figure-img" width="1152"></p>
-<figcaption class="figure-caption">Figure&nbsp;1: Cost of attending a NHL game (FCI) over time for each NHL team. The black line represents the average cost of attending NHL games.</figcaption>
+<figcaption class="figure-caption">Figure&nbsp;1: Cost of attending a NHL game (FCI) over time for each NHL team. The bold, black line represents the average cost of attending NHL games.</figcaption>
 </figure>
 </div>
 </div>
@@ -629,7 +629,7 @@ window.document.addEventListener("DOMContentLoaded", function (event) {
 <span id="cb2-29"><a href="#cb2-29" aria-hidden="true" tabindex="-1"></a><span class="co">#| echo: false</span></span>
 <span id="cb2-30"><a href="#cb2-30" aria-hidden="true" tabindex="-1"></a><span class="co">#| warning: false</span></span>
 <span id="cb2-31"><a href="#cb2-31" aria-hidden="true" tabindex="-1"></a><span class="co">#| label: fig-spaghetti</span></span>
-<span id="cb2-32"><a href="#cb2-32" aria-hidden="true" tabindex="-1"></a><span class="co">#| fig-cap: "Cost of attending a NHL game (FCI) over time for each NHL team. The black line represents the average cost of attending NHL games."</span></span>
+<span id="cb2-32"><a href="#cb2-32" aria-hidden="true" tabindex="-1"></a><span class="co">#| fig-cap: "Cost of attending a NHL game (FCI) over time for each NHL team. The bold, black line represents the average cost of attending NHL games."</span></span>
 <span id="cb2-33"><a href="#cb2-33" aria-hidden="true" tabindex="-1"></a></span>
 <span id="cb2-34"><a href="#cb2-34" aria-hidden="true" tabindex="-1"></a><span class="co">#library(AICcmodavg)</span></span>
 <span id="cb2-35"><a href="#cb2-35" aria-hidden="true" tabindex="-1"></a><span class="fu">library</span>(broom)</span>
